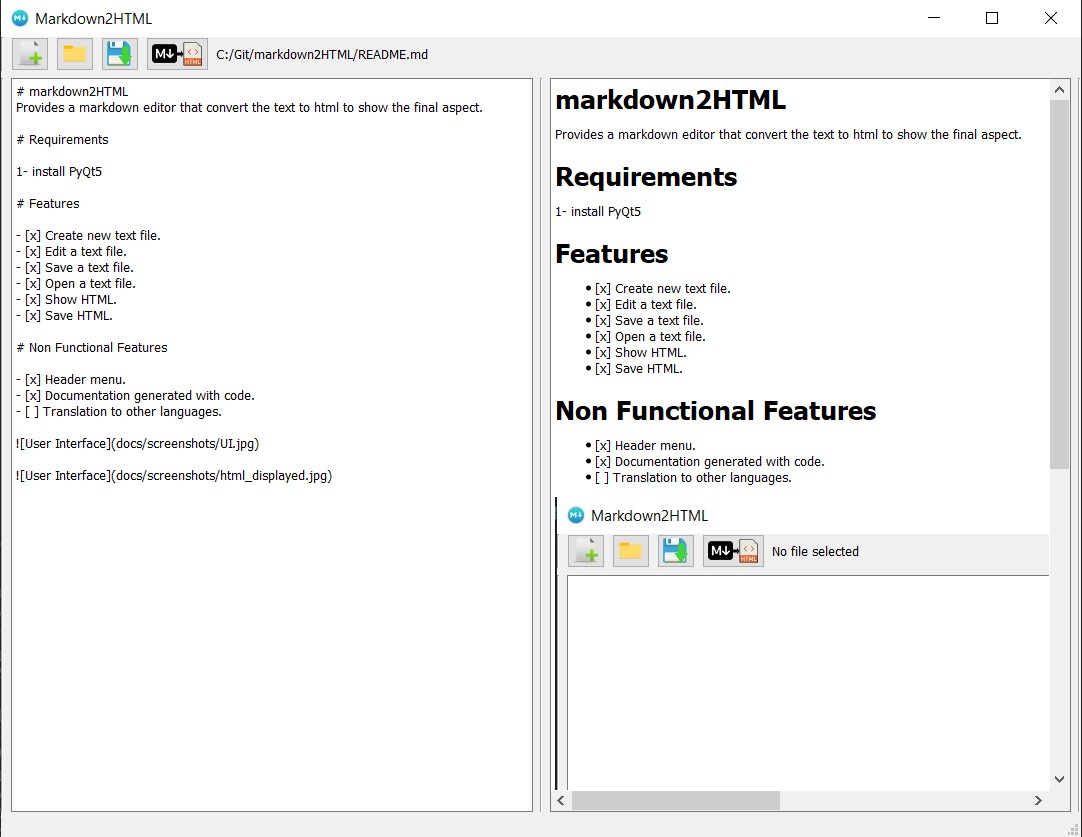
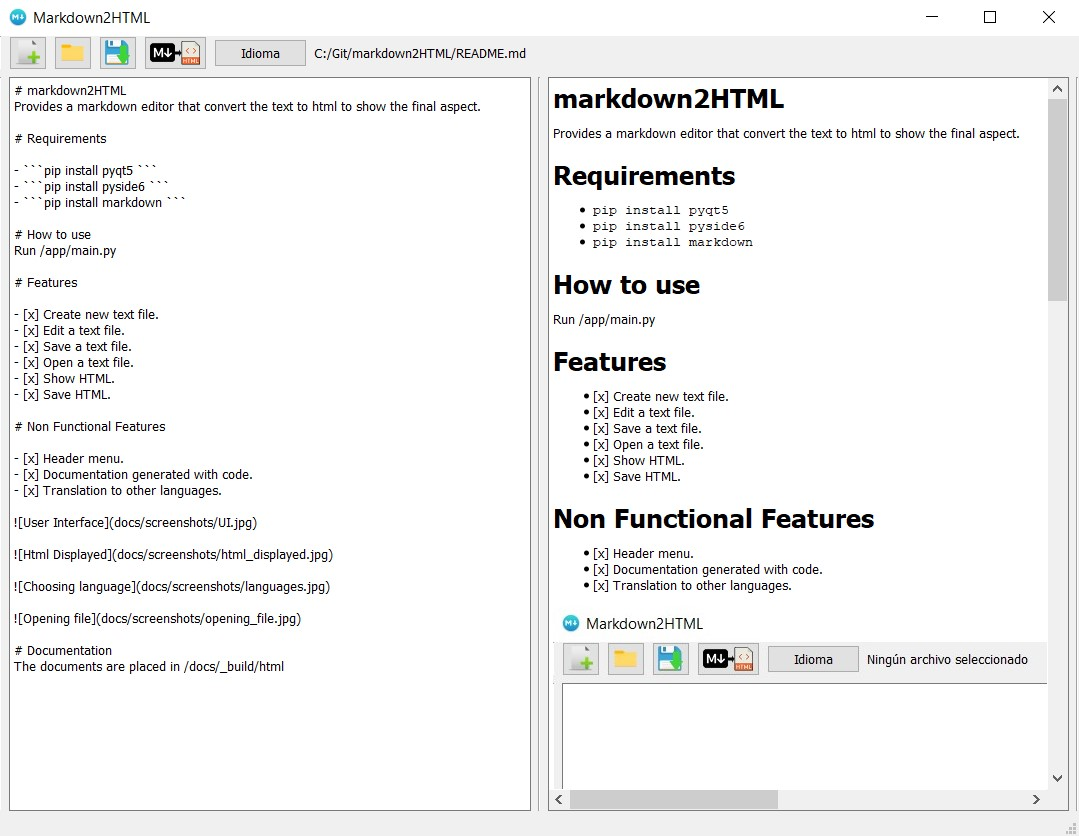
screenshots added

Changed region(s): [[0.4893, 0.0933, 0.9481, 0.9641], [0.0, 0.0, 0.4893, 0.9641], [0.9481, 0.0933, 1.0, 1.0]]

diff --git a/README.md b/README.md
@@ -27,9 +27,11 @@ Run /app/main.py
 
 ![User Interface](docs/screenshots/UI.jpg)
 
-![User Interface](docs/screenshots/html_displayed.jpg)
+![Html Displayed](docs/screenshots/html_displayed.jpg)
 
-![User Interface](docs/screenshots/languages.jpg)
+![Choosing language](docs/screenshots/languages.jpg)
+
+![Opening file](docs/screenshots/opening_file.jpg)
 
 # Documentation
 The documents are placed in /docs/_build/html
